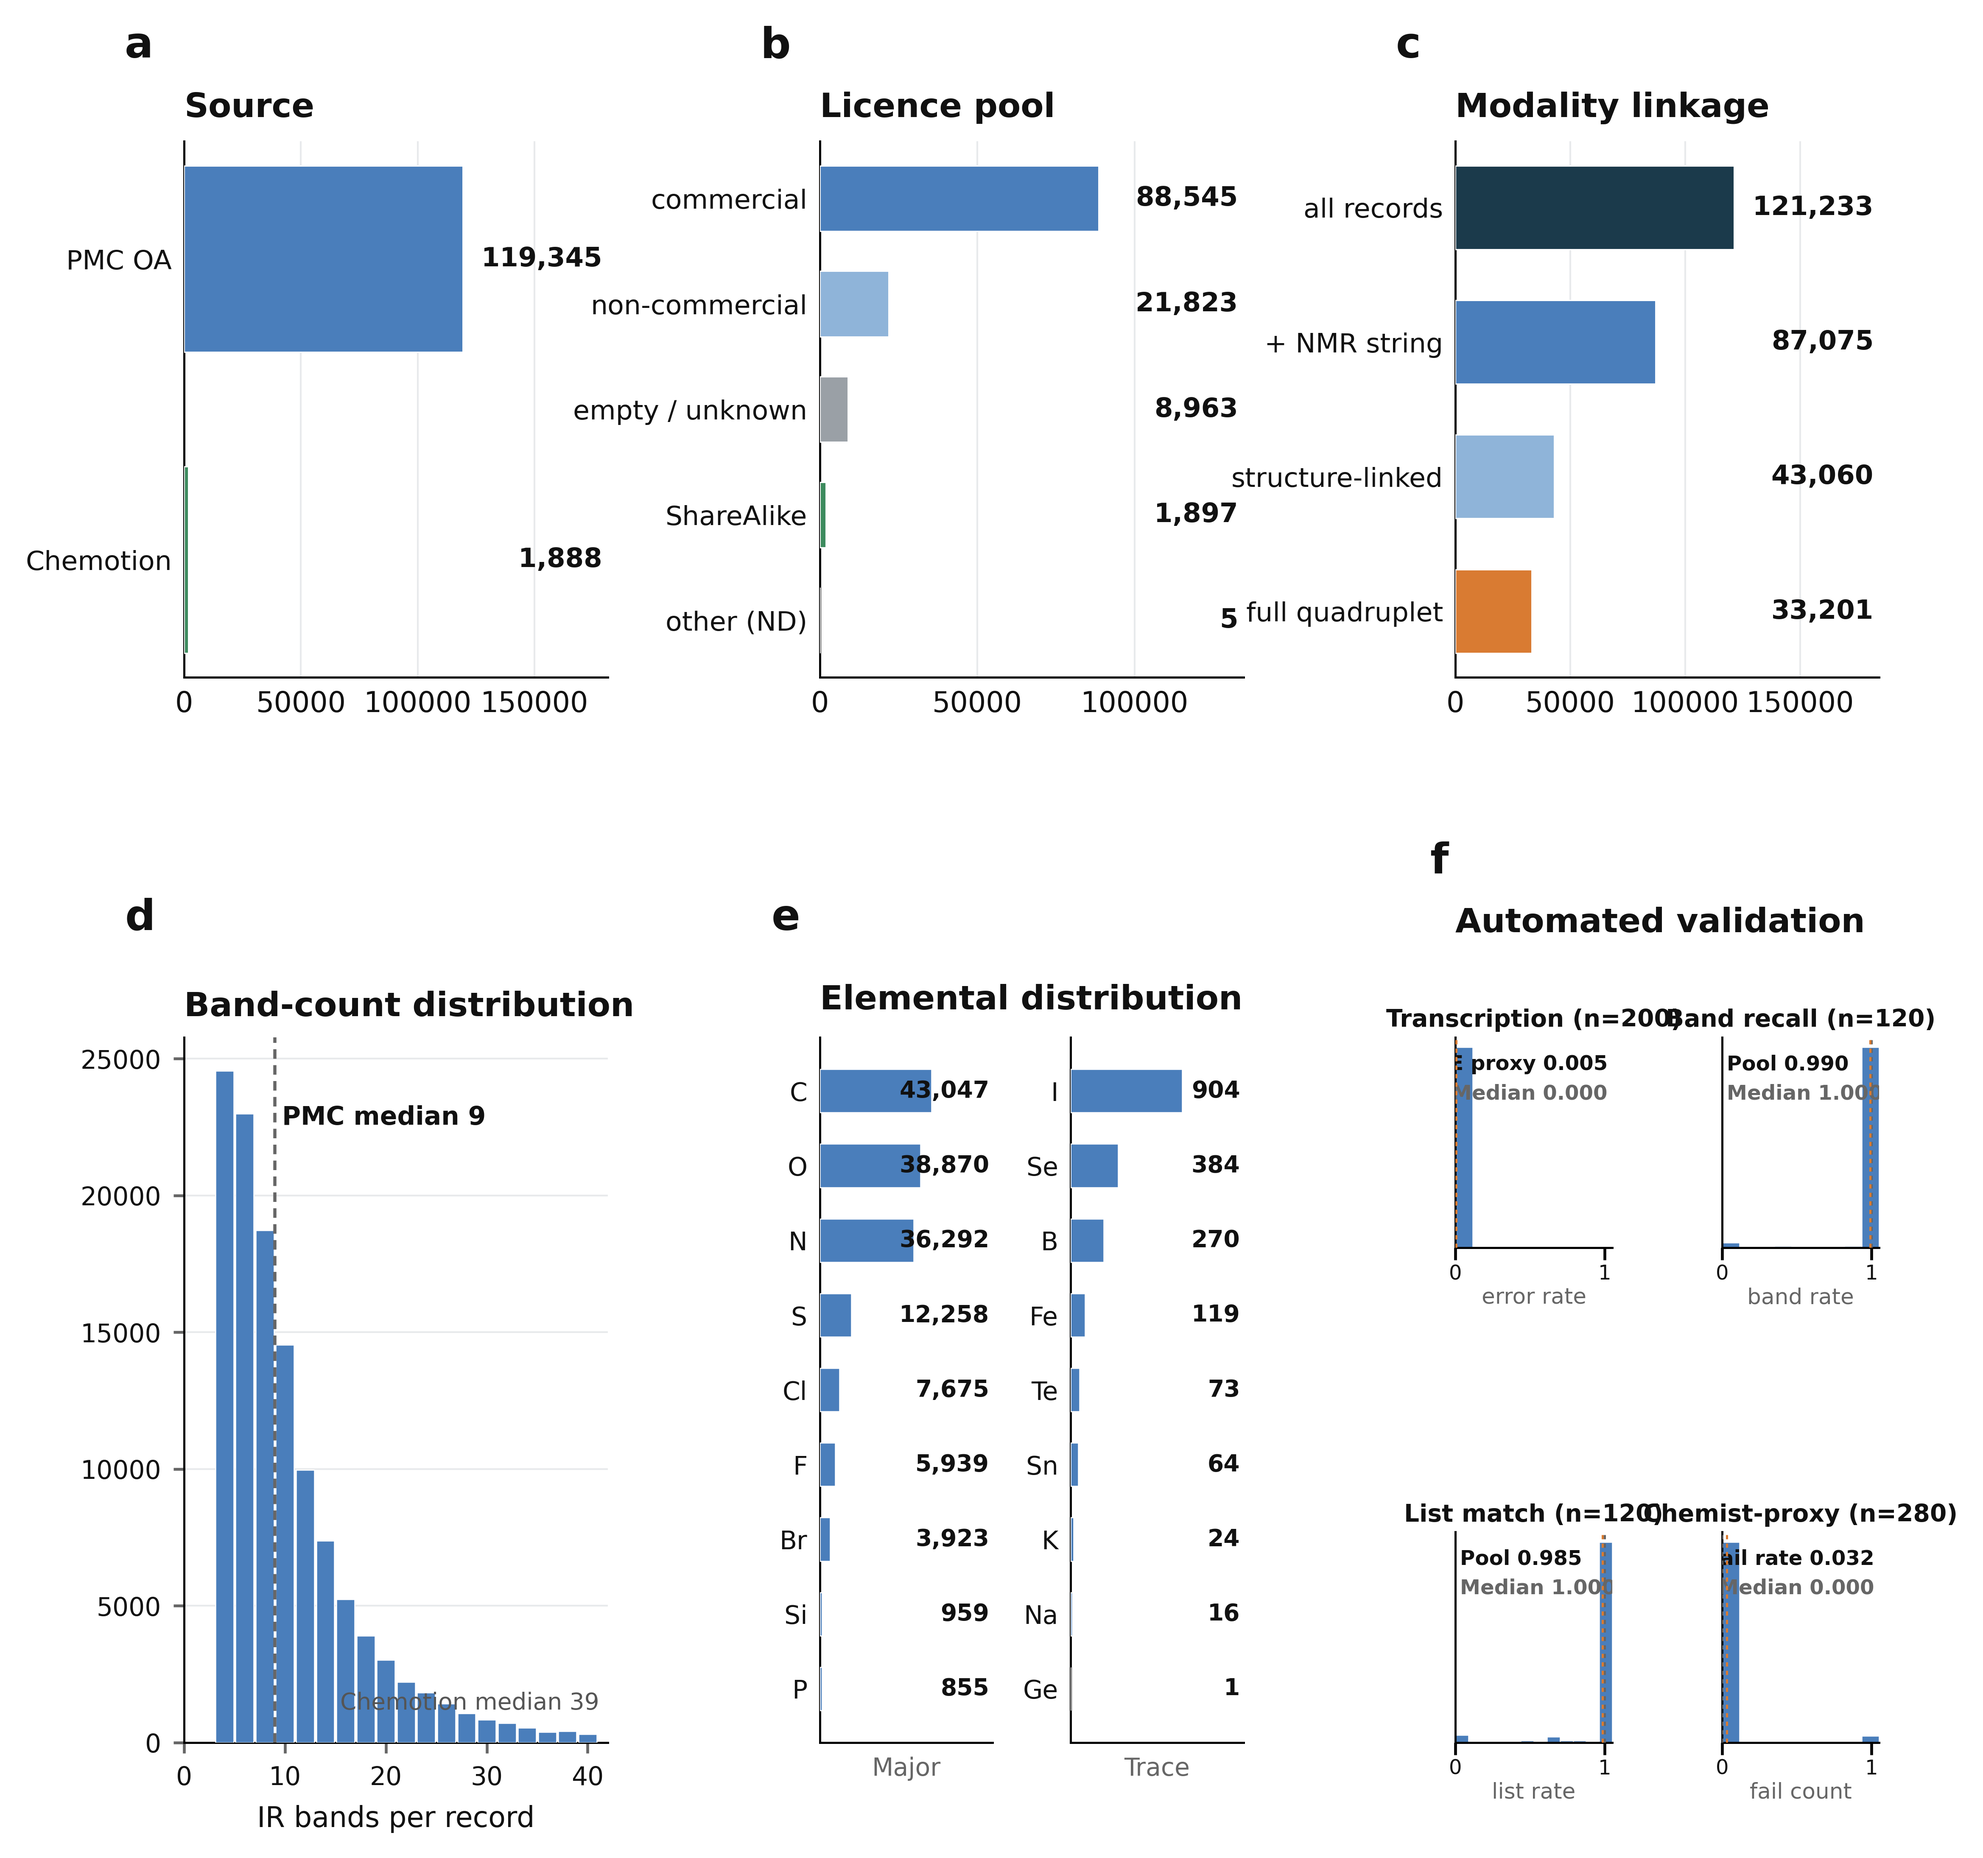
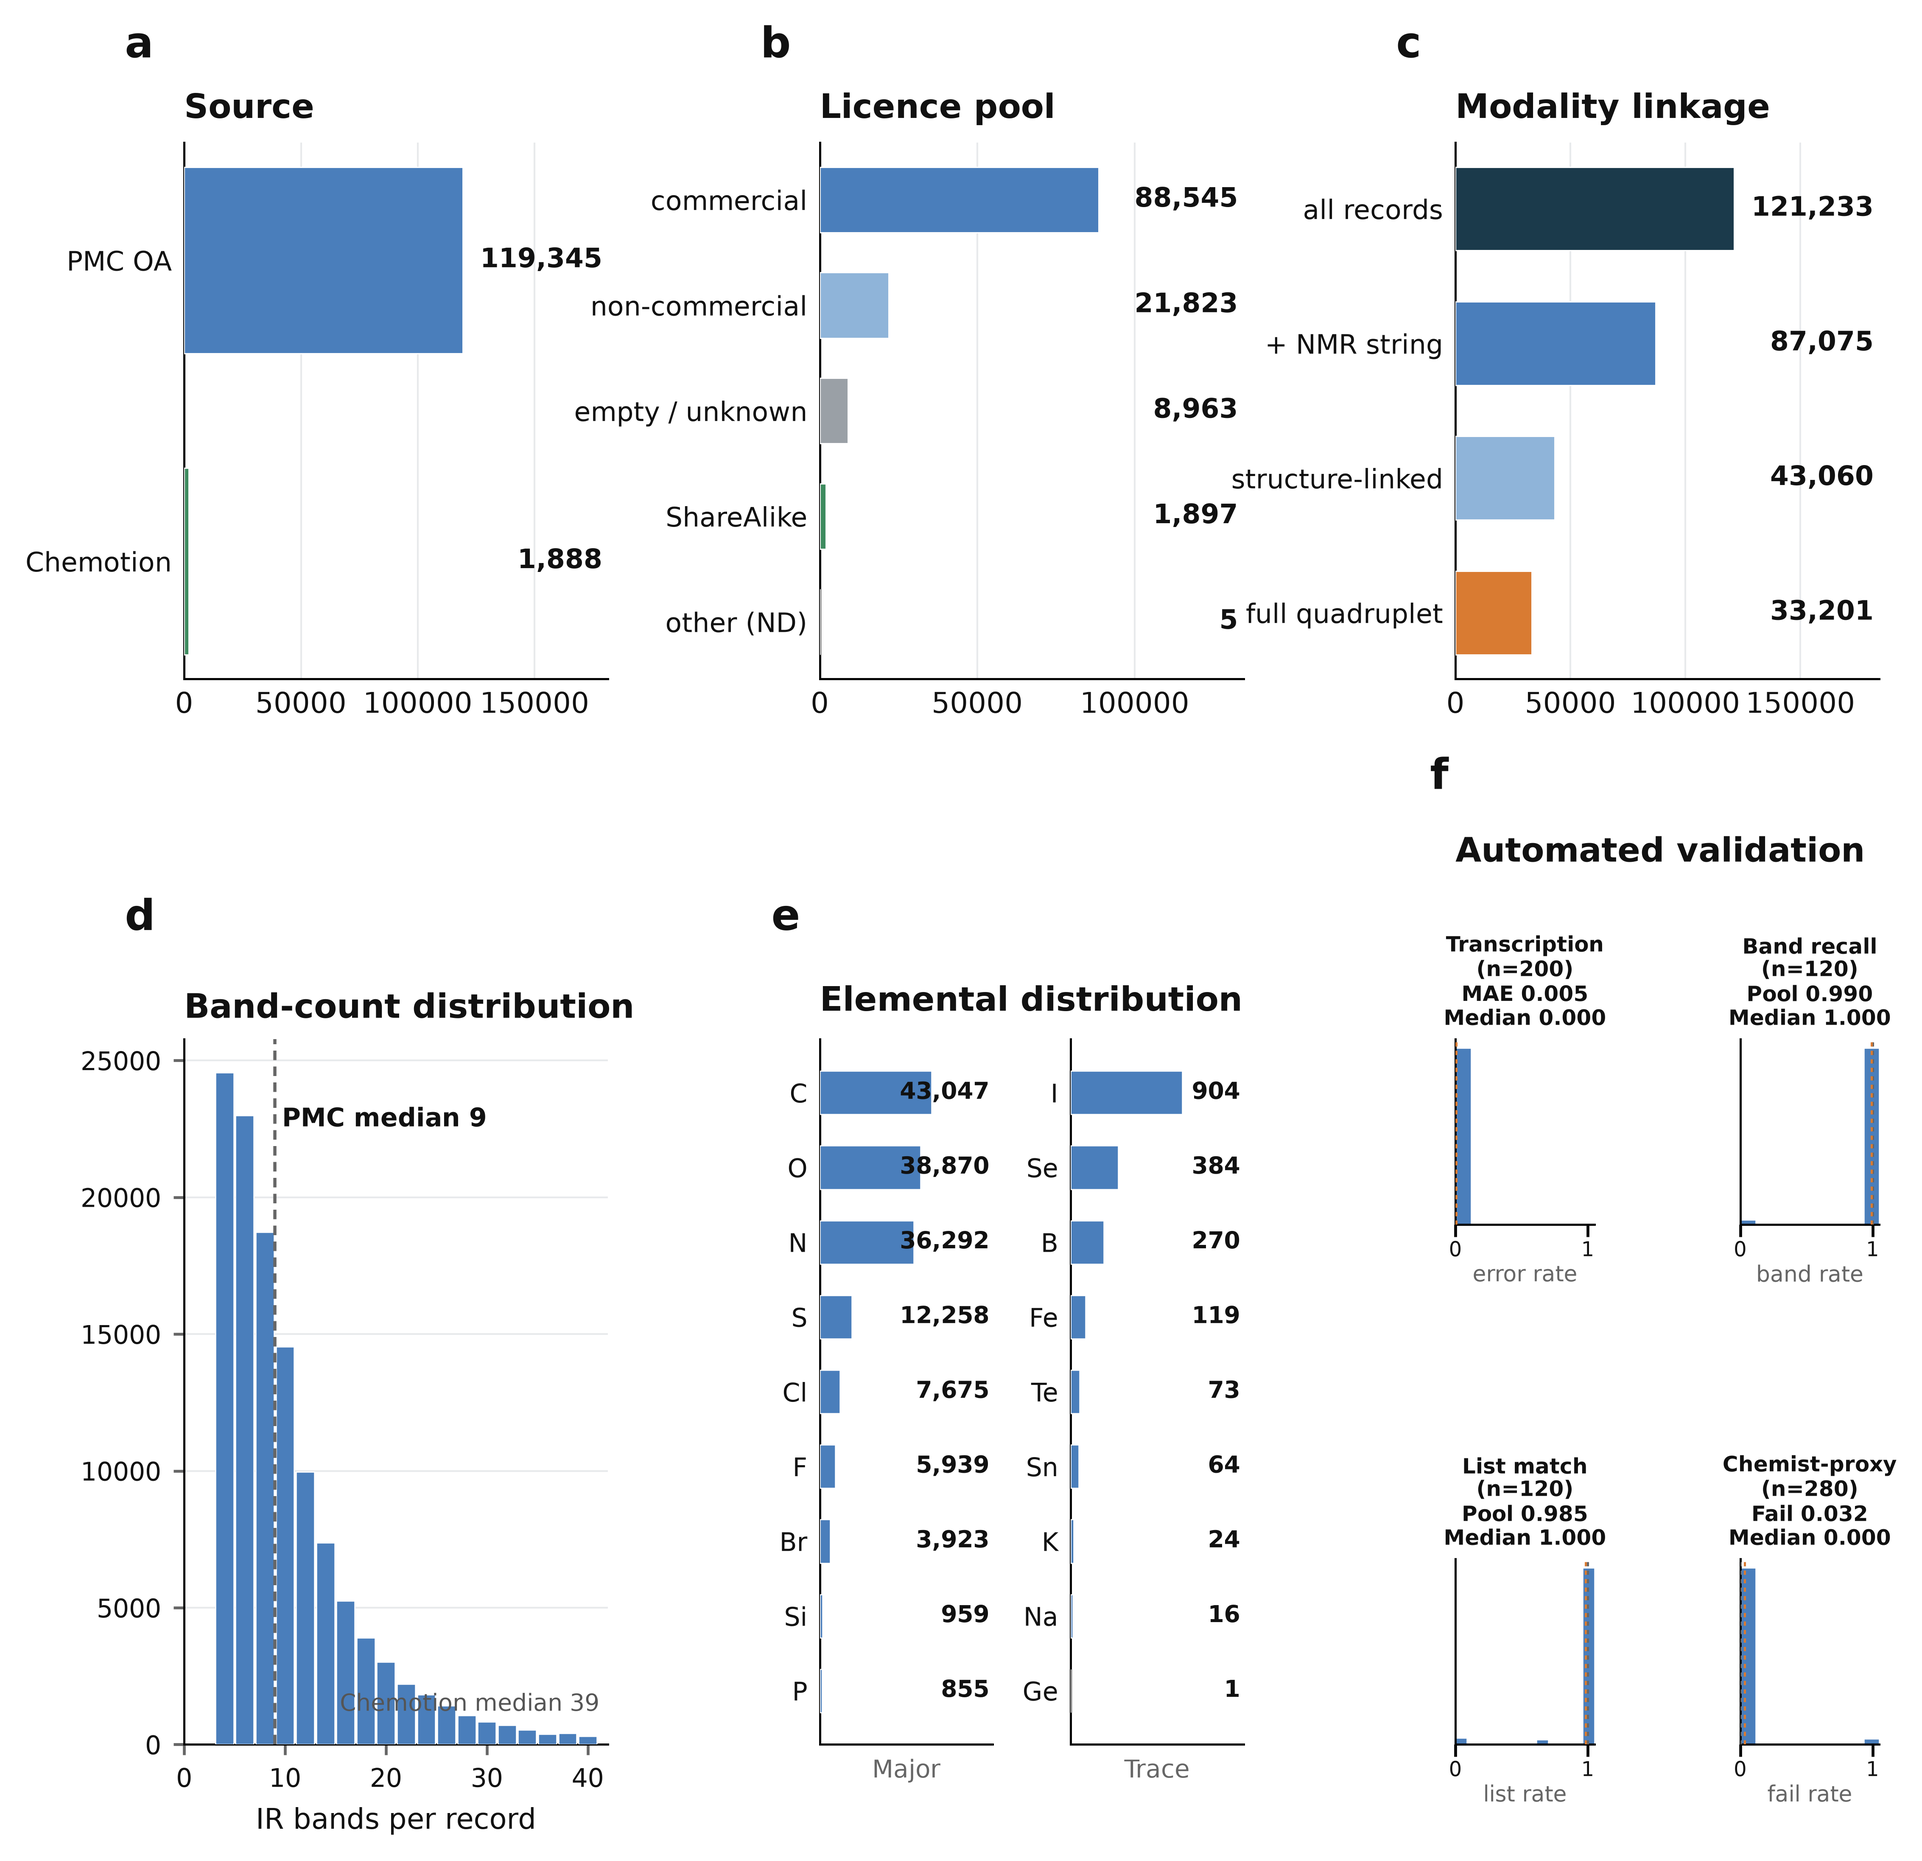
release v0.18
Point fix Fig3 panel f: two-line mini-hist titles, fail-rate xlabel, stats off the bars.

diff --git a/scripts/make_fig_irexp_distribution.py b/scripts/make_fig_irexp_distribution.py
@@ -145,43 +145,23 @@ def _validation_histogram(ax, title: str, data: np.ndarray, aggregate: float,
     ax.hist(data, bins=bins, color=BLUE, edgecolor="white", linewidth=0.3, zorder=2)
     ax.set_xlim(0, xmax)
     ax.set_xlabel(xlabel, fontsize=6.2, fontweight="normal", color=NOTE, labelpad=1)
-    ax.set_title(title, fontsize=6.8, fontweight="bold", color=INK, pad=3)
     ax.spines["top"].set_visible(False)
     ax.spines["right"].set_visible(False)
     ax.tick_params(axis="y", left=False, labelleft=False, labelcolor=INK)
     ax.tick_params(axis="x", labelsize=5.8, labelcolor=INK, pad=1)
     med = float(np.median(data))
-    ymax = ax.get_ylim()[1]
-    # compact corner annotations (stay inside axes; no elbow lines that spill)
     ax.axvline(med, color=NOTE, lw=0.6, ls=(0, (2, 2)), zorder=4)
     ax.axvline(aggregate, color=ORANGE, lw=0.6, ls=(0, (2, 2)), zorder=4)
-    # put labels on the opposite side of the mass to avoid bar occlusion / clipping
-    side_right = aggregate < 0.45 * xmax
-    tx = 0.97 if side_right else 0.03
-    ha = "right" if side_right else "left"
-    ax.text(
-        tx,
-        0.92,
-        f"{agg_label} {aggregate:.3f}",
-        transform=ax.transAxes,
-        ha=ha,
-        va="top",
-        fontsize=5.8,
+    # stats live in the title block: mini-axes are ~55 px wide, so interior
+    # corner strings were wider than the plot and sat on the edge spikes
+    pretty = {"MAE proxy": "MAE", "Fail rate": "Fail"}.get(agg_label, agg_label)
+    ax.set_title(
+        f"{title}\n{pretty} {aggregate:.3f}\nMedian {med:.3f}",
+        fontsize=6.0,
         fontweight="bold",
         color=INK,
-        clip_on=True,
-    )
-    ax.text(
-        tx,
-        0.78,
-        f"Median {med:.3f}",
-        transform=ax.transAxes,
-        ha=ha,
-        va="top",
-        fontsize=5.8,
-        fontweight="bold",
-        color=NOTE,
-        clip_on=True,
+        pad=4,
+        linespacing=1.12,
     )
 
 
@@ -302,15 +282,15 @@ def main() -> None:
     _el(ax_e1, EL_TRACE, "Trace")
 
     # f ΓÇö 2├ù2 validation histograms (real audit arrays)
-    gs_f = gs[1, 2].subgridspec(2, 2, hspace=1.35, wspace=0.70)
+    gs_f = gs[1, 2].subgridspec(2, 2, hspace=1.80, wspace=1.05)
     # letter on a phantom axes spanning the cell
     ax_f_phantom = fig.add_subplot(gs[1, 2])
     ax_f_phantom.set_axis_off()
-    # letter only ΓÇö avoid title collision with 2x2 subplot titles
-    _panel(ax_f_phantom, "f", x=-0.06, y=1.22)
+    # lift heading so multi-line mini-titles do not run into it
+    _panel(ax_f_phantom, "f", x=-0.06, y=1.34)
     ax_f_phantom.text(
         0.0,
-        1.14,
+        1.24,
         "Automated validation",
         transform=ax_f_phantom.transAxes,
         fontsize=9.5,
@@ -324,7 +304,7 @@ def main() -> None:
     ax_f1 = fig.add_subplot(gs_f[0, 0])
     _validation_histogram(
         ax_f1,
-        "Transcription (n=200)",
+        "Transcription\n(n=200)",
         tx_err,
         float(agg["mae_proxy"]),
         "error rate",
@@ -334,7 +314,7 @@ def main() -> None:
     ax_f2 = fig.add_subplot(gs_f[0, 1])
     _validation_histogram(
         ax_f2,
-        "Band recall (n=120)",
+        "Band recall\n(n=120)",
         paper_recall,
         float(agg["band_recall_rate"]),
         "band rate",
@@ -344,7 +324,7 @@ def main() -> None:
     ax_f3 = fig.add_subplot(gs_f[1, 0])
     _validation_histogram(
         ax_f3,
-        "List match (n=120)",
+        "List match\n(n=120)",
         list_match,
         float(agg["list_match_rate"]),
         "list rate",
@@ -354,10 +334,10 @@ def main() -> None:
     ax_f4 = fig.add_subplot(gs_f[1, 1])
     _validation_histogram(
         ax_f4,
-        "Chemist-proxy (n=280)",
+        "Chemist-proxy\n(n=280)",
         fail_ct,
         float(agg["chemist_fail_rate"]),
-        "fail count",
+        "fail rate",
         1.05,  # fail *rate* axis (0-1), match siblings a-c; not count scale
         agg_label="Fail rate",
     )
